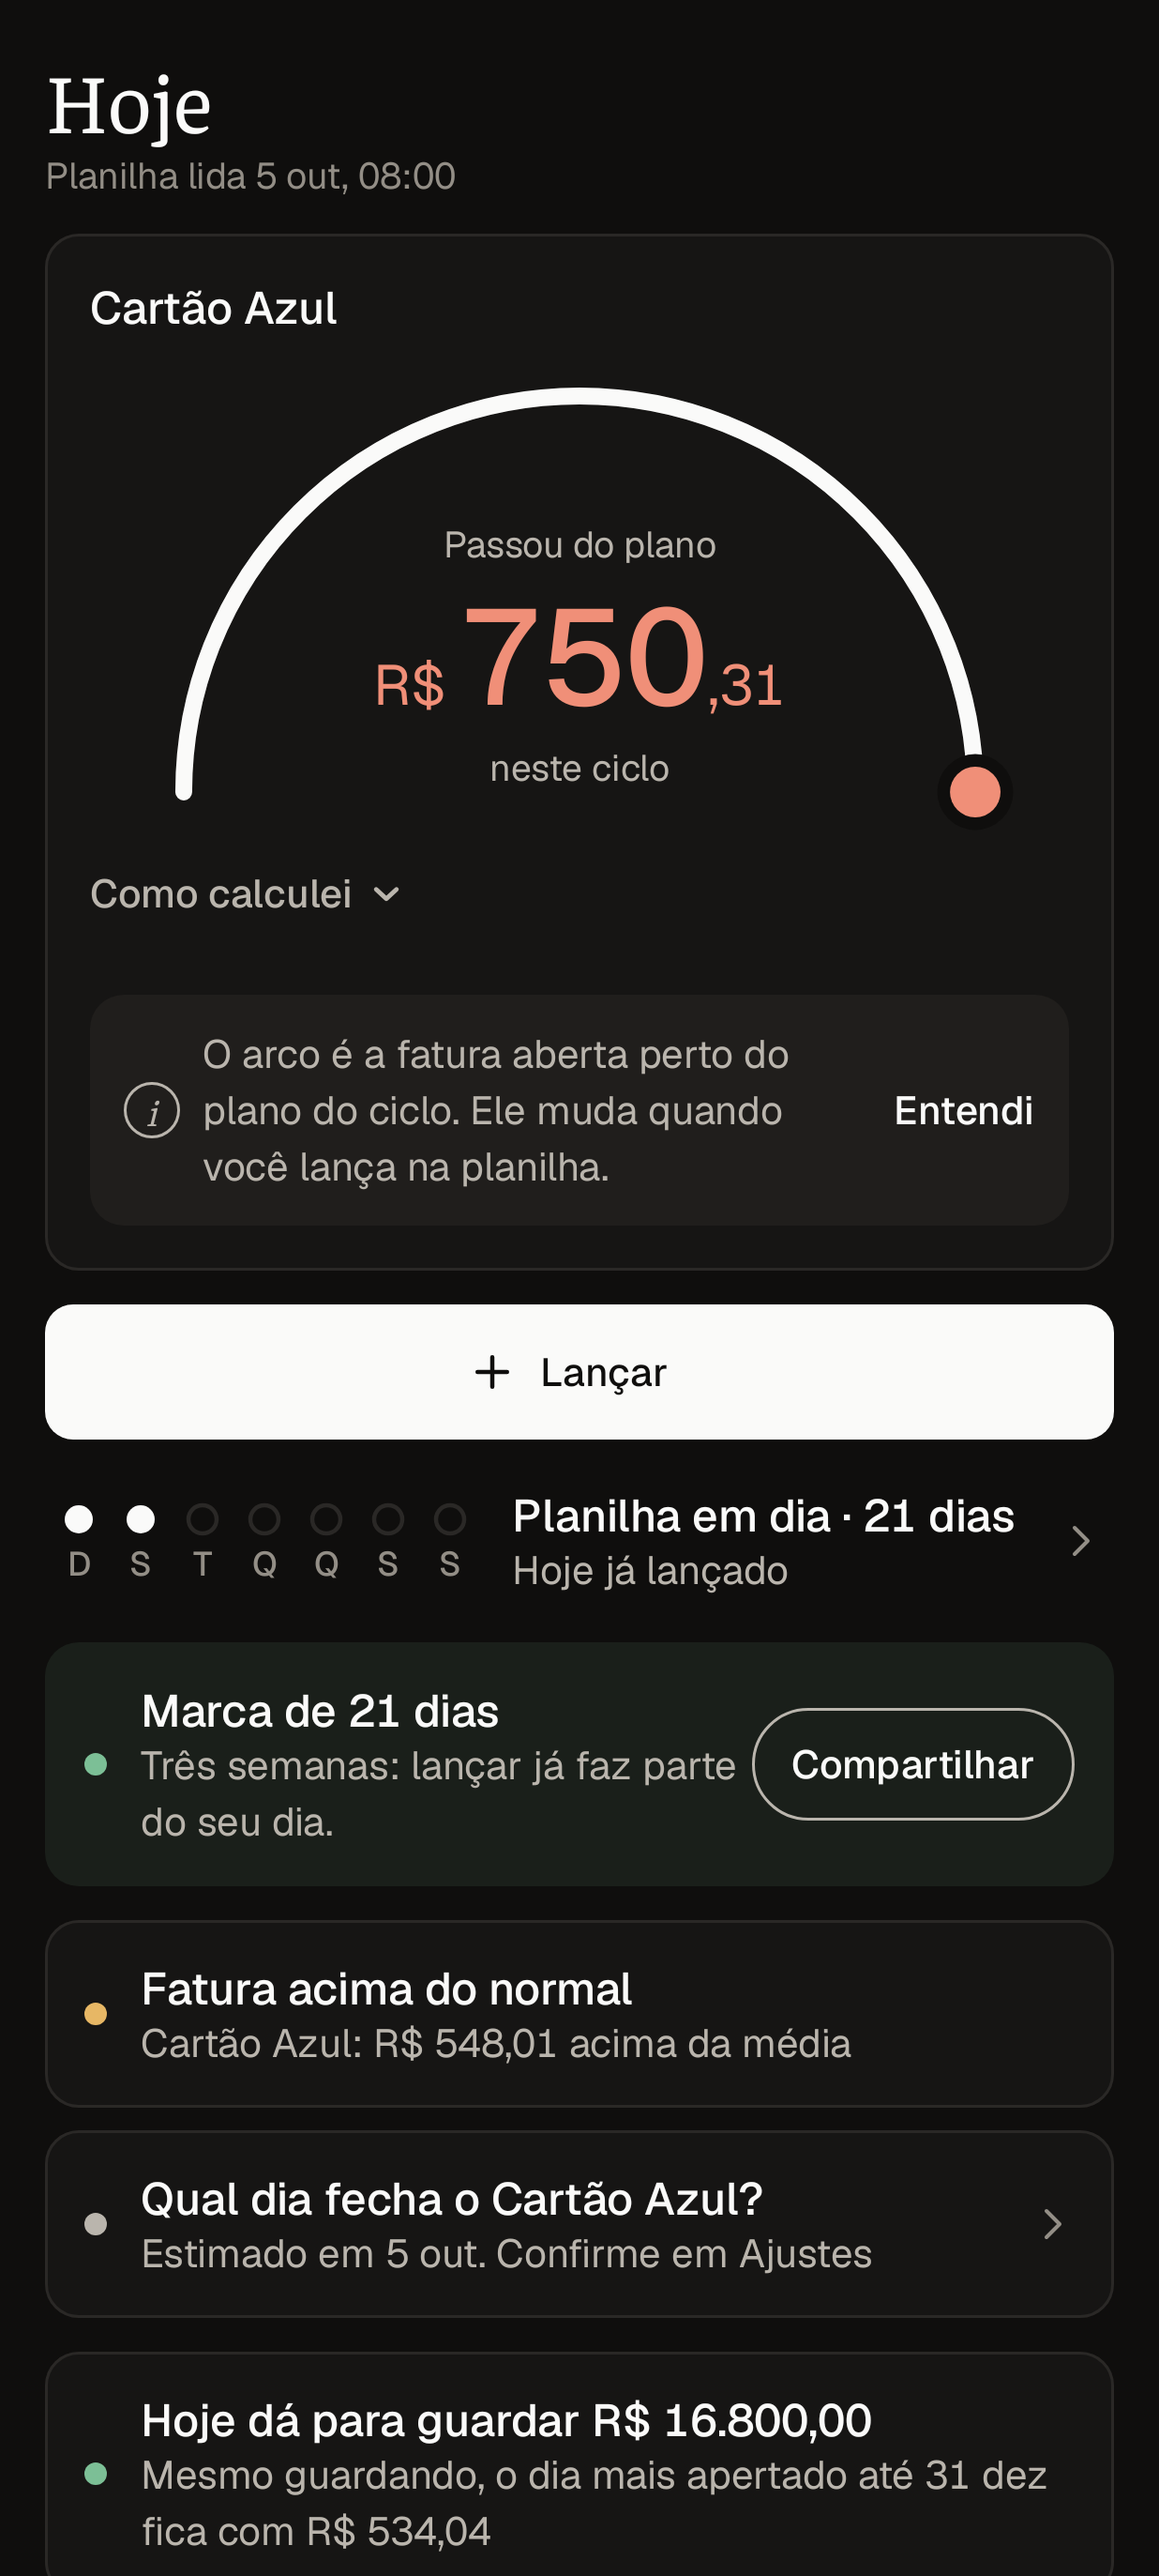
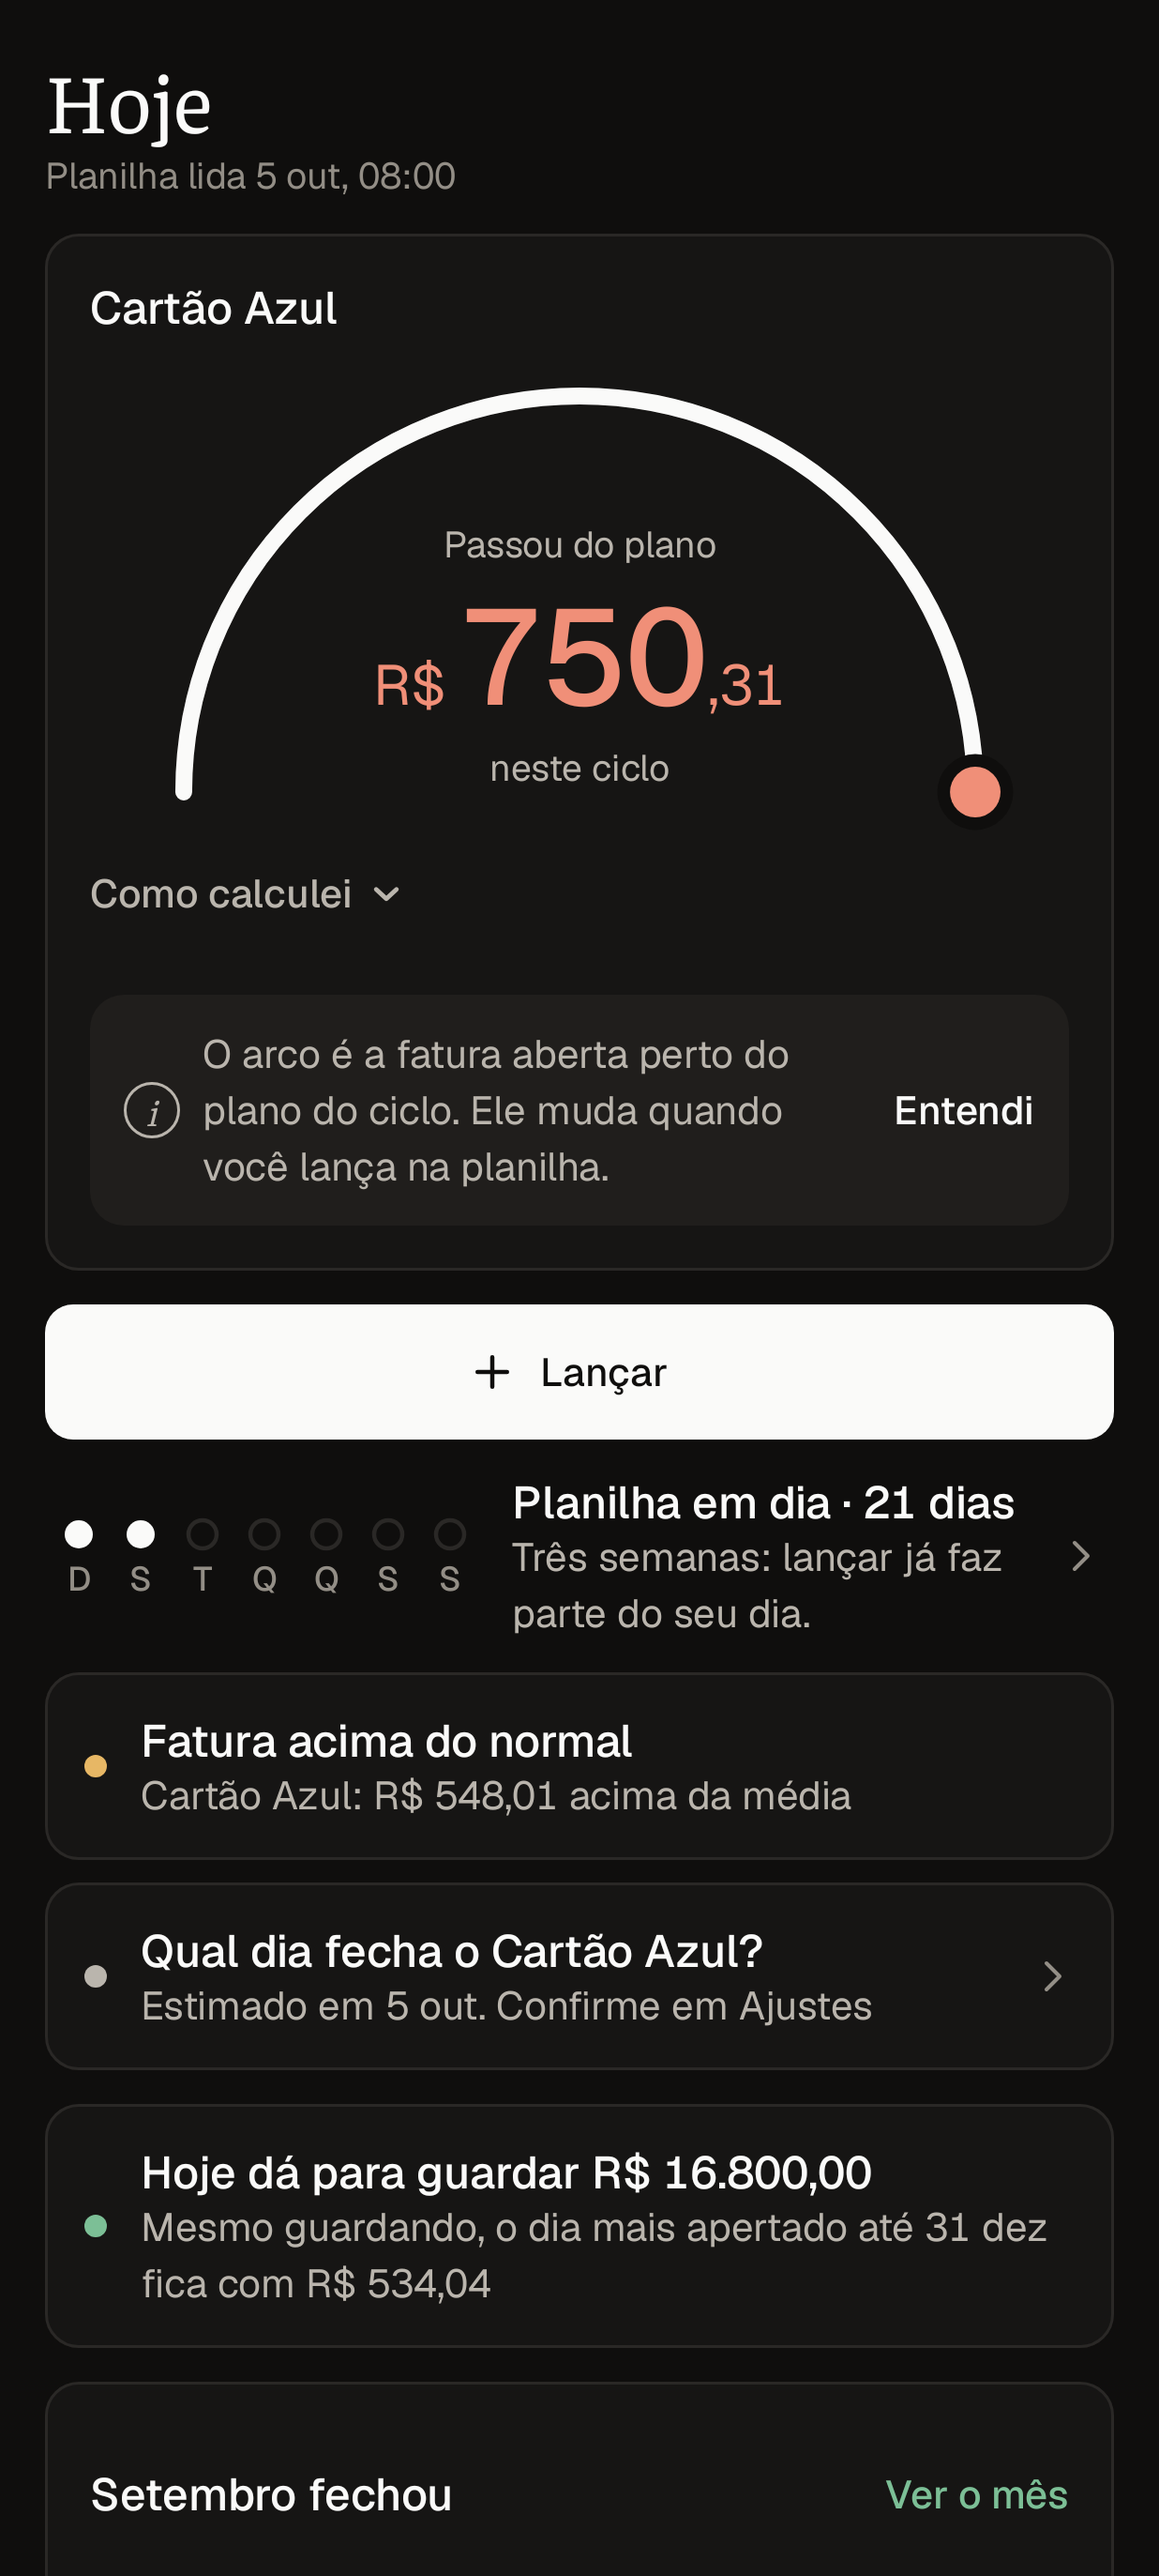
Tira o Neko de personagem dos textos e põe as marcas de 7 e 21 dias na linha do hábito
Os estados vazios diziam "O Neko procura faturas", e o erro de formato dizia "O Neko só lê
o formato que conhece": frases de personagem num app que agora é sóbrio. Viram frases
diretas, no tom de extrato. A marca do hábito (7, 21, 66 dias…) deixa de ser um cartão
verde com compartilhar e vira o texto de baixo da linha "Planilha em dia · N dias", como
o novo recorde; o toque no celular continua no dia da marca.

Claude-Session: https://claude.ai/code/session_01Fgu62WRVYtqTeNwABUkmF4

diff --git a/apps/android/app/src/main/kotlin/dev/johnlaff/neko/ui/HojeScreen.kt b/apps/android/app/src/main/kotlin/dev/johnlaff/neko/ui/HojeScreen.kt
@@ -102,7 +102,6 @@ fun HojeScreen(
             if (asking) item { MiaPanel(mia, askMia, onScreen, miaTalk) }
         }
         v.habit?.let { h -> item { Streak(h) } }
-        v.habit?.milestone?.let { m -> item { MilestoneCard("Marca de $m dias", Learn.milestone(m), m) } }
         if (v.insights.isNotEmpty()) item { Insights(v, onAjustes) }
         v.saving?.let { s -> item { SaveCard(s, v.today) } }
         v.recap?.let { r -> item { RecapPanel(r) { onScreen("mes") } } }
@@ -120,7 +119,7 @@ private fun Hero(v: TodayView) {
         Panel {
             QuietMark(64.dp)
             Text("Nenhum cartão na planilha", style = MaterialTheme.typography.headlineSmall)
-            Text("O Neko procura faturas nas notas de Saída, debaixo de uma linha CARTÕES.", color = l.muted)
+            Text("As faturas vêm das notas de Saída, debaixo de uma linha CARTÕES.", color = l.muted)
         }
         return
     }
@@ -232,8 +231,6 @@ private fun Alert(
     detail: String,
     color: androidx.compose.ui.graphics.Color,
     onClick: (() -> Unit)? = null,
-    good: Boolean = false,
-    action: (@Composable () -> Unit)? = null,
 ) {
     val l = LocalLedger.current
     val shape = RoundedCornerShape(12.dp)
@@ -241,12 +238,9 @@ private fun Alert(
         Modifier.fillMaxWidth()
             .appear()
             .semantics(mergeDescendants = true) {}
-            // Calm rows: only the dot carries the status color. A celebration keeps a light wash
-            // of green, the one alert that is good news rather than a task.
-            .then(
-                if (good) Modifier.background(color.copy(alpha = 0.10f), shape)
-                else Modifier.background(l.surface, shape).border(1.dp, l.border, shape),
-            )
+            // Calm rows: only the dot carries the status color.
+            .background(l.surface, shape)
+            .border(1.dp, l.border, shape)
             .clip(shape)
             .then(if (onClick != null) Modifier.clickable(onClick = onClick) else Modifier)
             .padding(14.dp),
@@ -258,24 +252,9 @@ private fun Alert(
             Text(title, style = MaterialTheme.typography.titleMedium)
             Text(detail, color = l.muted, style = MaterialTheme.typography.bodyMedium)
         }
-        action?.invoke()
-        if (onClick != null && action == null)
+        if (onClick != null)
             Icon(painterResource(R.drawable.ic_chevron_right), null, tint = l.faint, modifier = Modifier.size(16.dp))
     }
-}
-
-/** A mark or a new best run, the day it lands and the day after (as on the site). */
-@Composable
-private fun MilestoneCard(title: String, text: String, days: Int) {
-    val l = LocalLedger.current
-    MilestoneHaptic(days)
-    Alert(
-        title,
-        text,
-        l.pos,
-        good = true,
-        action = { ShareButton(title, listOf(text), "Compartilhar: $title") },
-    )
 }
 
 @Composable

diff --git a/apps/neko/src/web/screens/Hoje.tsx b/apps/neko/src/web/screens/Hoje.tsx
@@ -39,9 +39,9 @@ import {
 import { HINTS } from "../learn.ts";
 import { Mia } from "../Mia.tsx";
 import { Simulator } from "../Pace.tsx";
-import { milestoneText, Streak } from "../Streak.tsx";
+import { Streak } from "../Streak.tsx";
 import { WithProjection } from "../useProjection.tsx";
-import { ShareButton, Wins } from "../Wins.tsx";
+import { Wins } from "../Wins.tsx";
 
 /** Each warning in a few words, with the figure that shows it and where to look next. */
 const insightView = (i: Insight) => {
@@ -433,20 +433,6 @@ const RecapPanel = ({ r }: { r: MonthRecap }) => {
  * The day the run reaches a mark or passes its best before, and the day after: one card, then
  * it leaves on its own. A mark wins when both land on the same day.
  */
-const MilestoneCard = ({ title, text }: { title: string; text: string }) => (
-  <ul className="alerts" aria-label="Sequência">
-    <li>
-      <div className="alert good milestone">
-        <span className="alert-text" role="status">
-          <strong>{title}</strong>
-          <span>{text}</span>
-        </span>
-        <ShareButton title={title} lines={[text]} label={`Compartilhar: ${title}`} />
-      </div>
-    </li>
-  </ul>
-);
-
 export const Hoje = () => (
   <WithProjection>
     {({ projection: p, sheet, daily, habit, bank }) => {
@@ -524,7 +510,7 @@ export const Hoje = () => (
               <BrandMark width={64} className="quiet-mark" />
               <h2>Nenhum cartão na planilha</h2>
               <p className="muted">
-                O Neko procura faturas nas notas de Saída, debaixo de uma linha CARTÕES.
+                As faturas vêm das notas de Saída, debaixo de uma linha CARTÕES.
               </p>
             </section>
           )}
@@ -540,13 +526,6 @@ export const Hoje = () => (
             <Mia />
           </div>
           {habit && <Streak habit={habit} />}
-
-          {habit?.milestone != null && (
-            <MilestoneCard
-              title={`Marca de ${habit.milestone} dias`}
-              text={milestoneText(habit.milestone)}
-            />
-          )}
 
           {(p.insights ?? []).length > 0 && <Insights items={p.insights} />}
           {p.saving && p.saving.date >= p.today && p.saving.date <= addDays(p.today, SAVE_LEAD) && (

diff --git a/apps/android/app/src/main/kotlin/dev/johnlaff/neko/ui/Streak.kt b/apps/android/app/src/main/kotlin/dev/johnlaff/neko/ui/Streak.kt
@@ -73,8 +73,9 @@ fun Streak(h: Habit) {
             Spacer(Modifier.width(14.dp))
             Column(Modifier.weight(1f)) {
                 Text(Learn.streakLabel(h.streak), style = MaterialTheme.typography.titleMedium)
-                // A new best run is a word on this line, not a card of its own (as on the site).
+                // A mark or a new best run is a word on this line, not a card of its own (as on the site).
                 when {
+                    h.milestone != null -> Text(Learn.milestone(h.milestone), color = l.muted, style = MaterialTheme.typography.bodyMedium)
                     h.record != null -> Text("Novo recorde", color = l.muted, style = MaterialTheme.typography.bodyMedium)
                     h.editedToday -> Text("Hoje já lançado", color = l.muted, style = MaterialTheme.typography.bodyMedium)
                 }
@@ -86,6 +87,7 @@ fun Streak(h: Habit) {
                 modifier = Modifier.size(16.dp).rotate(if (open) 90f else 0f),
             )
         }
+        h.milestone?.let { MilestoneHaptic(it) }
         Reveal(open) {
             Text(Learn.HABIT_RULE, color = l.muted, style = MaterialTheme.typography.bodyMedium)
             val extra = listOfNotNull(

diff --git a/apps/neko/src/web/Streak.tsx b/apps/neko/src/web/Streak.tsx
@@ -33,8 +33,10 @@ export const Streak = ({ habit }: { habit: Habit }) => (
       </ol>
       <span className="streak-text">
         <strong>{streakLabel(habit.streak)}</strong>
-        {/* A new best run is a word on this line, not a card of its own. */}
-        {habit.record != null ? (
+        {/* A mark or a new best run is a word on this line, not a card of its own. */}
+        {habit.milestone != null ? (
+          <span>{milestoneText(habit.milestone)}</span>
+        ) : habit.record != null ? (
           <span>Novo recorde</span>
         ) : (
           habit.editedToday && <span>Hoje já lançado</span>
@@ -52,5 +54,5 @@ export const Streak = ({ habit }: { habit: Habit }) => (
   </details>
 );
 
-/** A run that just reached a mark gets one card, the day it happens and the day after. */
+/** What a mark means, on the habit line the day it lands and the day after. */
 export const milestoneText = (m: number) => HABIT.milestones[m] ?? `${m} dias de planilha em dia.`;

diff --git a/apps/android/app/src/main/kotlin/dev/johnlaff/neko/ui/FaturasScreen.kt b/apps/android/app/src/main/kotlin/dev/johnlaff/neko/ui/FaturasScreen.kt
@@ -34,7 +34,7 @@ fun FaturasScreen(state: ScreenState<InvoicesView>, onRefresh: () -> Unit, onAju
                 Panel {
                     QuietMark(64.dp)
                     Text("Nenhuma fatura", style = MaterialTheme.typography.headlineSmall)
-                    Text("O Neko procura cartões nas notas de Saída, debaixo de CARTÕES.", color = LocalLedger.current.muted)
+                    Text("Os cartões vêm das notas de Saída, debaixo de CARTÕES.", color = LocalLedger.current.muted)
                 }
             }
             return@ScreenFrame

diff --git a/apps/android/app/src/main/kotlin/dev/johnlaff/neko/ui/Frame.kt b/apps/android/app/src/main/kotlin/dev/johnlaff/neko/ui/Frame.kt
@@ -224,7 +224,7 @@ private fun ErrorPanel(state: ScreenState<*>, onRetry: () -> Unit) {
             style = MaterialTheme.typography.headlineSmall,
         )
         Text(
-            if (structure) "${state.detail ?: ""} O Neko só lê o formato que conhece, então nada foi calculado."
+            if (structure) "${state.detail ?: ""} Fora do formato esperado, nada foi calculado."
             else "Pode ser a conexão ou o Google fora do ar. A planilha não foi alterada.",
             color = l.muted,
         )

diff --git a/apps/neko/src/web/screens/Faturas.tsx b/apps/neko/src/web/screens/Faturas.tsx
@@ -61,9 +61,7 @@ export const Faturas = () => {
             <section className="page-head empty-cards">
               <BrandMark width={64} className="quiet-mark" />
               <h1>Nenhuma fatura</h1>
-              <p className="muted">
-                O Neko procura cartões nas notas de Saída, debaixo de CARTÕES.
-              </p>
+              <p className="muted">Os cartões vêm das notas de Saída, debaixo de CARTÕES.</p>
             </section>
           );
         const bars = usual

diff --git a/apps/neko/src/web/useProjection.tsx b/apps/neko/src/web/useProjection.tsx
@@ -70,7 +70,7 @@ export const WithProjection = ({
         title={structure ? "A planilha mudou de formato" : "Não consegui ler a planilha"}
         text={
           structure
-            ? `${q.error.message} O Neko só lê o formato que conhece, então nada foi calculado.`
+            ? `${q.error.message} Fora do formato esperado, nada foi calculado.`
             : "Pode ser a conexão ou o Google fora do ar. A planilha não foi alterada."
         }
         retry={() => q.refetch()}

diff --git a/apps/neko/src/web/styles.css b/apps/neko/src/web/styles.css
@@ -2291,11 +2291,6 @@ button.setting.quiet:hover {
   color: var(--muted);
   font: italic 600 0.75rem / 1 var(--serif);
 }
-/* A celebration keeps a light wash of green: the one alert that is good news, not a task */
-.alert.milestone {
-  background: color-mix(in oklch, var(--pos) 9%, var(--surface));
-}
-
 /* Hoje: two warnings in view, the rest behind one quiet line */
 .more-alerts > summary {
   padding: 4px 2px;
